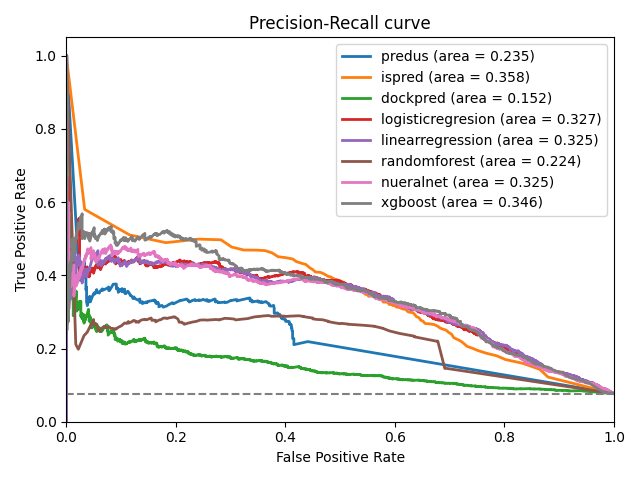
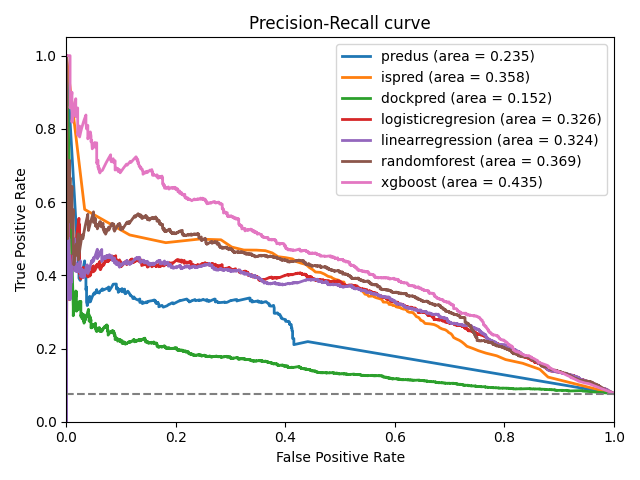
c

diff --git a/ReadMe.md b/ReadMe.md
@@ -78,7 +78,21 @@ Output:
 
 	- results.csv: this file contains the fscore, MCC, Roc AUC and PR AUC for each individual method and model. 
 
-	- roc_model.csv and pr_model.csv: the TRP and FPR by threshold for each individual method and model, can be used to generate specific ROC or PR graphs. 
+|   | predictor         | f-score | mcc    | roc_auc | pr_auc |
+| - | ----------------- | ------- | ------ | ------- | ------ |
+| 0 | predus            | 0.337   | 0.2776 | 0.665   | 0.235  |
+| 1 | ispred            | 0.370   | 0.314  | 0.816   | 0.358  |
+| 2 | dockpred          | 0.263   | 0.196  | 0.652   | 0.152  |
+| 3 | logisticregresion | 0.374   | 0.318  | 0.841   | 0.326  |
+| 4 | linearregression  | 0.372   | 0.316  | 0.842   | 0.324  |
+| 5 | randomforest      | 0.403   | 0.350  | 0.846   | 0.369  |
+| 6 | xgboost           | 0.422   | 0.371  | 0.853   | 0.435  |
+
+	- roc_model.csv and pr_model.csv: the TRP and FPR by threshold for each individual method and model, can be used to generate specific ROC or PR graphs.
+
+<img src="https://github.com/eved1018/MetaDPIv2/blob/main/Media/PR_model.png" width="200" height="400" />
+
+![Images](/Media/PR_model.png)	 
 
 	- fscore_mcc_by_protein: the individual fscore and mcc for each protein in the test set. 
 	- *.joblib: the trained models from a generate, test or cv run. Move these into the input directory to be used with 'predict' mode. 
@@ -90,7 +104,7 @@ Output:
 	-cvout: Directory containing the best parameters for each model used in the final prediction, as well as the individual metrics over each cross validation step. 
 
 
-![Images](/Media/PR_model.png)	
+
 
 ---
 ### Special thanks to:
